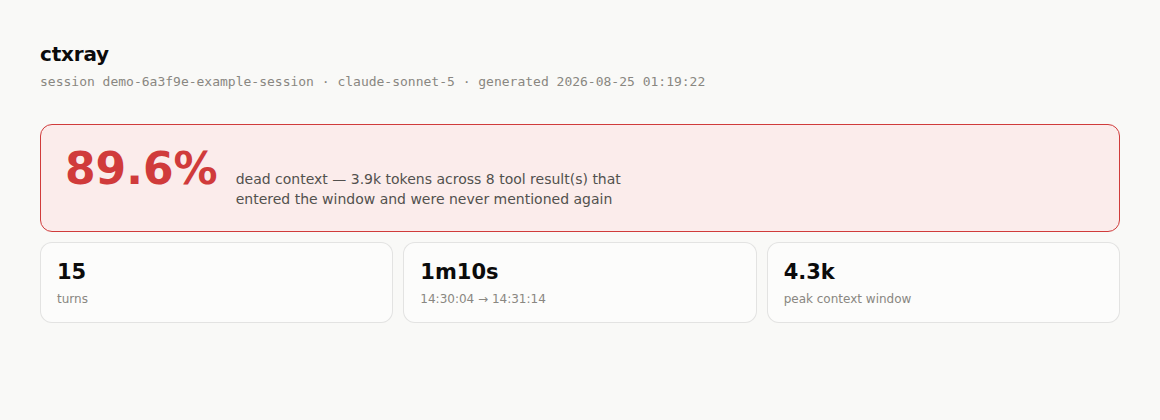
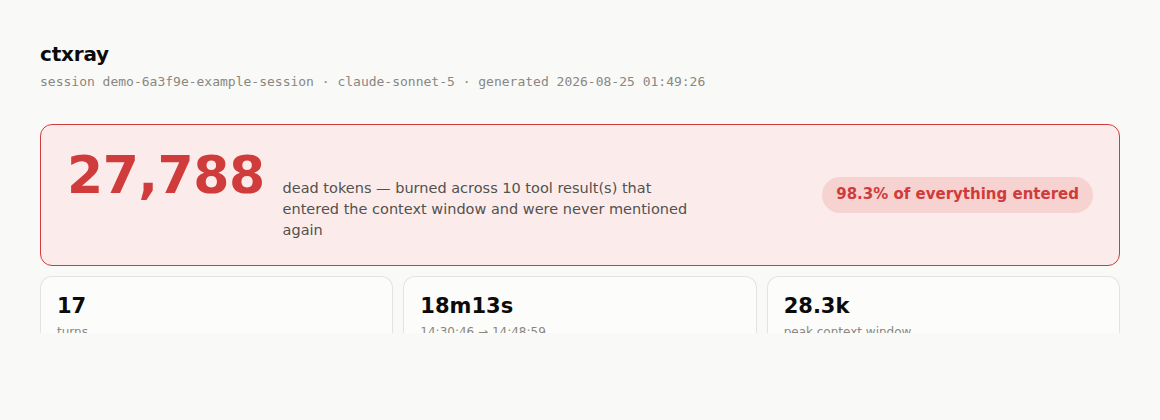
Bigger, more realistic demo session; absolute-number hero; theme-aware images
Demo: scale the sample transcript up (17 turns, ~18 minutes, 28.3k peak
tokens) instead of a session that reads as a toy example. Same
referenced-vs-dead narrative as before, just proportioned like an
actual long agent session.

Hero stat: lead with the absolute dead-token count (27,788) instead of
the percentage — the percentage is still shown, as a secondary chip,
but a big concrete number reads as more real than a round-looking
percentage on its own.

README: swap the dead goreportcard.com badge (the service shut down)
for a golangci-lint badge backed by an actual CI step. Screenshots are
now theme-aware <picture> elements (light/dark variants) instead of a
single light-mode image that showed up as a stark white box in a
dark-mode GitHub render.

diff --git a/internal/analyze/analyze_test.go b/internal/analyze/analyze_test.go
@@ -8,13 +8,14 @@ import (
 )
 
 // TestBuild_SampleTranscript is a regression test against the shipped demo
-// transcript: a 15-turn session hand-crafted so that specific tool results
-// are referenced later (main.go's computeChecksumForge, config.go's port
-// default, the focused TestConfigDefaultPort run, the TODO grep, the git
-// diff stat) and specific others are not (a directory listing, a full test
-// wall, git log, an unrelated file read, a broad grep, go vet, go build, a
-// noisy grep). It pins both the aggregate dead-block count and each named
-// block's individual verdict, so a change to the attribution or dead-block
+// transcript: a 17-turn, ~18-minute session hand-crafted so that specific
+// tool results are referenced later (main.go's computeChecksumForge,
+// config.go's port default, the focused TestConfigDefaultPort run, the
+// TODO grep, the git diff stat) and specific others are not (a directory
+// listing, a full test wall, git log, an unrelated file read, a broad
+// grep, go vet, a go.sum dump, go build, a noisy grep, a changelog read).
+// It pins both the aggregate dead-block count and each named block's
+// individual verdict, so a change to the attribution or dead-block
 // heuristic that silently flips one of them fails loudly here instead of
 // only showing up as a different percentage in a screenshot.
 func TestBuild_SampleTranscript(t *testing.T) {
@@ -28,32 +29,37 @@ func TestBuild_SampleTranscript(t *testing.T) {
 	if report.SessionID != "test-session" {
 		t.Errorf("SessionID = %q, want %q", report.SessionID, "test-session")
 	}
-	if got, want := report.Stats.TurnCount, 15; got != want {
+	if got, want := report.Stats.TurnCount, 17; got != want {
 		t.Errorf("TurnCount = %d, want %d", got, want)
 	}
-	if got, want := report.Stats.DeadTokenBlocks, 8; got != want {
+	if got, want := report.Stats.DeadTokenBlocks, 10; got != want {
 		t.Errorf("DeadTokenBlocks = %d, want %d", got, want)
 	}
 	if report.Stats.DeadTokenPct < 0.5 {
 		t.Errorf("DeadTokenPct = %.3f, want a dramatically high fraction (this transcript is mostly dead weight on purpose)", report.Stats.DeadTokenPct)
 	}
-	if report.Stats.TotalContextEntered <= 0 {
-		t.Errorf("TotalContextEntered = %d, want > 0", report.Stats.TotalContextEntered)
+	if report.Stats.DeadTokens < 10_000 {
+		t.Errorf("DeadTokens = %d, want a five-figure count (the whole point of this transcript is a large absolute number)", report.Stats.DeadTokens)
+	}
+	if report.Stats.PeakContextTokens < 10_000 {
+		t.Errorf("PeakContextTokens = %d, want a realistic five-figure session size", report.Stats.PeakContextTokens)
 	}
 
 	wantDead := map[string]bool{
-		"48":                                        true,  // find/ls dump — never mentioned again
-		"=== RUN   TestWombatService":               true,  // full test wall — only the focused rerun is mentioned
-		"chore: touch up wombat_service":            true,  // git log
-		"package service":                           true,  // unrelated file read, never discussed
-		"func HandleWombatService":                  true,  // broad grep across the repo
-		"# example-repo/src/wombat_service":         true,  // go vet output
-		"compiling example-repo/src/wombat_service": true,  // go build output
-		"reporting metrics on the import path":      true,  // noisy grep
-		"package main":                              false, // referenced via computeChecksumForge
-		"package config":                            false, // referenced via the port-default fix
-		"src/wombat_service.go:12:// TODO":          false, // referenced via "retry backoff"
-		"=== RUN   TestConfigDefaultPort":           false, // referenced by name in the final reply
+		"112":                                          true,  // find/ls -laR dump — never mentioned again
+		"=== RUN   TestWombatService_000":              true,  // full test wall — only the focused rerun is mentioned
+		"chore: touch up wombat_service":               true,  // git log
+		"package service":                              true,  // unrelated file read, never discussed
+		"func HandleWombatService000":                  true,  // broad grep across the repo
+		"# example-repo/src/wombat_service000":         true,  // go vet output
+		"github.com/example/wombat-service":            true,  // go.sum dump
+		"compiling example-repo/src/wombat_service000": true,  // go build output
+		"reporting metrics on the import path":         true,  // noisy grep
+		"## v0.40.0":                                   true,  // changelog read
+		"package main":                                 false, // referenced via computeChecksumForge
+		"package config":                               false, // referenced via the port-default fix
+		"src/wombat_service.go:12:// TODO":             false, // referenced via "retry backoff"
+		"=== RUN   TestConfigDefaultPort":              false, // referenced by name in the final reply
 	}
 
 	matched := map[string]bool{}

diff --git a/internal/render/format.go b/internal/render/format.go
@@ -2,6 +2,7 @@ package render
 
 import (
 	"fmt"
+	"strconv"
 	"time"
 )
 
@@ -14,6 +15,31 @@ func formatTokens(n int) string {
 	default:
 		return fmt.Sprintf("%d", n)
 	}
+}
+
+// formatExact renders the full integer with thousands separators
+// (27,834, not 27.8k) — for the one number on the page meant to be read
+// digit by digit, not skimmed.
+func formatExact(n int) string {
+	s := strconv.Itoa(n)
+	neg := ""
+	if len(s) > 0 && s[0] == '-' {
+		neg, s = "-", s[1:]
+	}
+	if len(s) <= 3 {
+		return neg + s
+	}
+	var out []byte
+	lead := len(s) % 3
+	if lead == 0 {
+		lead = 3
+	}
+	out = append(out, s[:lead]...)
+	for i := lead; i < len(s); i += 3 {
+		out = append(out, ',')
+		out = append(out, s[i:i+3]...)
+	}
+	return neg + string(out)
 }
 
 func formatPct(f float64) string {

diff --git a/internal/render/build.go b/internal/render/build.go
@@ -42,6 +42,7 @@ func buildStatsVM(s analyze.Stats) StatsVM {
 		TotalOutputTokens:   formatTokens(s.TotalOutputTokens),
 		TotalThinkingTokens: formatTokens(s.TotalThinkingTokens),
 		DeadTokens:          formatTokens(s.DeadTokens),
+		DeadTokensExact:     formatExact(s.DeadTokens),
 		DeadTokenPct:        formatPct(s.DeadTokenPct),
 		DeadTokenBlocks:     s.DeadTokenBlocks,
 	}

diff --git a/internal/render/types.go b/internal/render/types.go
@@ -27,6 +27,7 @@ type StatsVM struct {
 	TotalOutputTokens   string
 	TotalThinkingTokens string
 	DeadTokens          string
+	DeadTokensExact     string
 	DeadTokenPct        string
 	DeadTokenBlocks     int
 }

diff --git a/README.md b/README.md
@@ -3,18 +3,21 @@
 **Flamegraph for your agent's context window.**
 
 [![ci](https://github.com/Gabriel-Gerhardt/ctxray/actions/workflows/ci.yml/badge.svg)](https://github.com/Gabriel-Gerhardt/ctxray/actions/workflows/ci.yml)
-[![go report card](https://goreportcard.com/badge/github.com/Gabriel-Gerhardt/ctxray)](https://goreportcard.com/report/github.com/Gabriel-Gerhardt/ctxray)
+[![golangci-lint](https://img.shields.io/badge/lint-golangci--lint-informational?logo=go&logoColor=white)](https://golangci-lint.run/)
 [![go version](https://img.shields.io/badge/go-1.24%2B-00ADD8?logo=go&logoColor=white)](go.mod)
 [![license](https://img.shields.io/github/license/Gabriel-Gerhardt/ctxray)](LICENSE)
 
 Point it at a Claude Code session transcript. Get back one HTML file that shows, turn by turn, where every token in the context window came from — and how much of it was never mentioned again.
 
-![the hero number](docs/hero.png)
+<picture>
+  <source media="(prefers-color-scheme: dark)" srcset="docs/hero-dark.png">
+  <img src="docs/hero.png" alt="the hero number: 27,788 dead tokens, 98.3% of everything entered">
+</picture>
 
 ```
 $ ctxray my-session.jsonl
-ctxray: 15 turns · 4.3k tokens entered · peak window 4.3k
-ctxray: 89.6% dead context — 3.9k tokens across 8 tool result(s) never referenced again
+ctxray: 17 turns · 28.3k tokens entered · peak window 28.3k
+ctxray: 98.3% dead context — 27.8k tokens across 10 tool result(s) never referenced again
 ctxray: report written to ctxray-report.html
 ```
 
@@ -56,7 +59,10 @@ Claude Code writes one JSON object per line to `~/.claude/projects/<project>/<se
 
 The result renders as one flamegraph-style HTML report: one row per turn, one segment per content source, hatched wherever a block was flagged dead. No server, no build step, no JavaScript — inline CSS and a couple of embedded SVGs, so it opens the same from `file://` as it does hosted anywhere.
 
-![full report](docs/screenshot.png)
+<picture>
+  <source media="(prefers-color-scheme: dark)" srcset="docs/screenshot-dark.png">
+  <img src="docs/screenshot.png" alt="full ctxray report: stat tiles, a context-window timeline, and the turn-by-turn flamegraph">
+</picture>
 
 Color is intentionally sparse — five fixed identities (user, Bash, Read, Grep, everything else) instead of a new hue per tool, so a session with twenty different MCP tools still reads as a handful of colors, not a rainbow. Anything not called out by name folds into "other" and gets named in the legend anyway.
 
